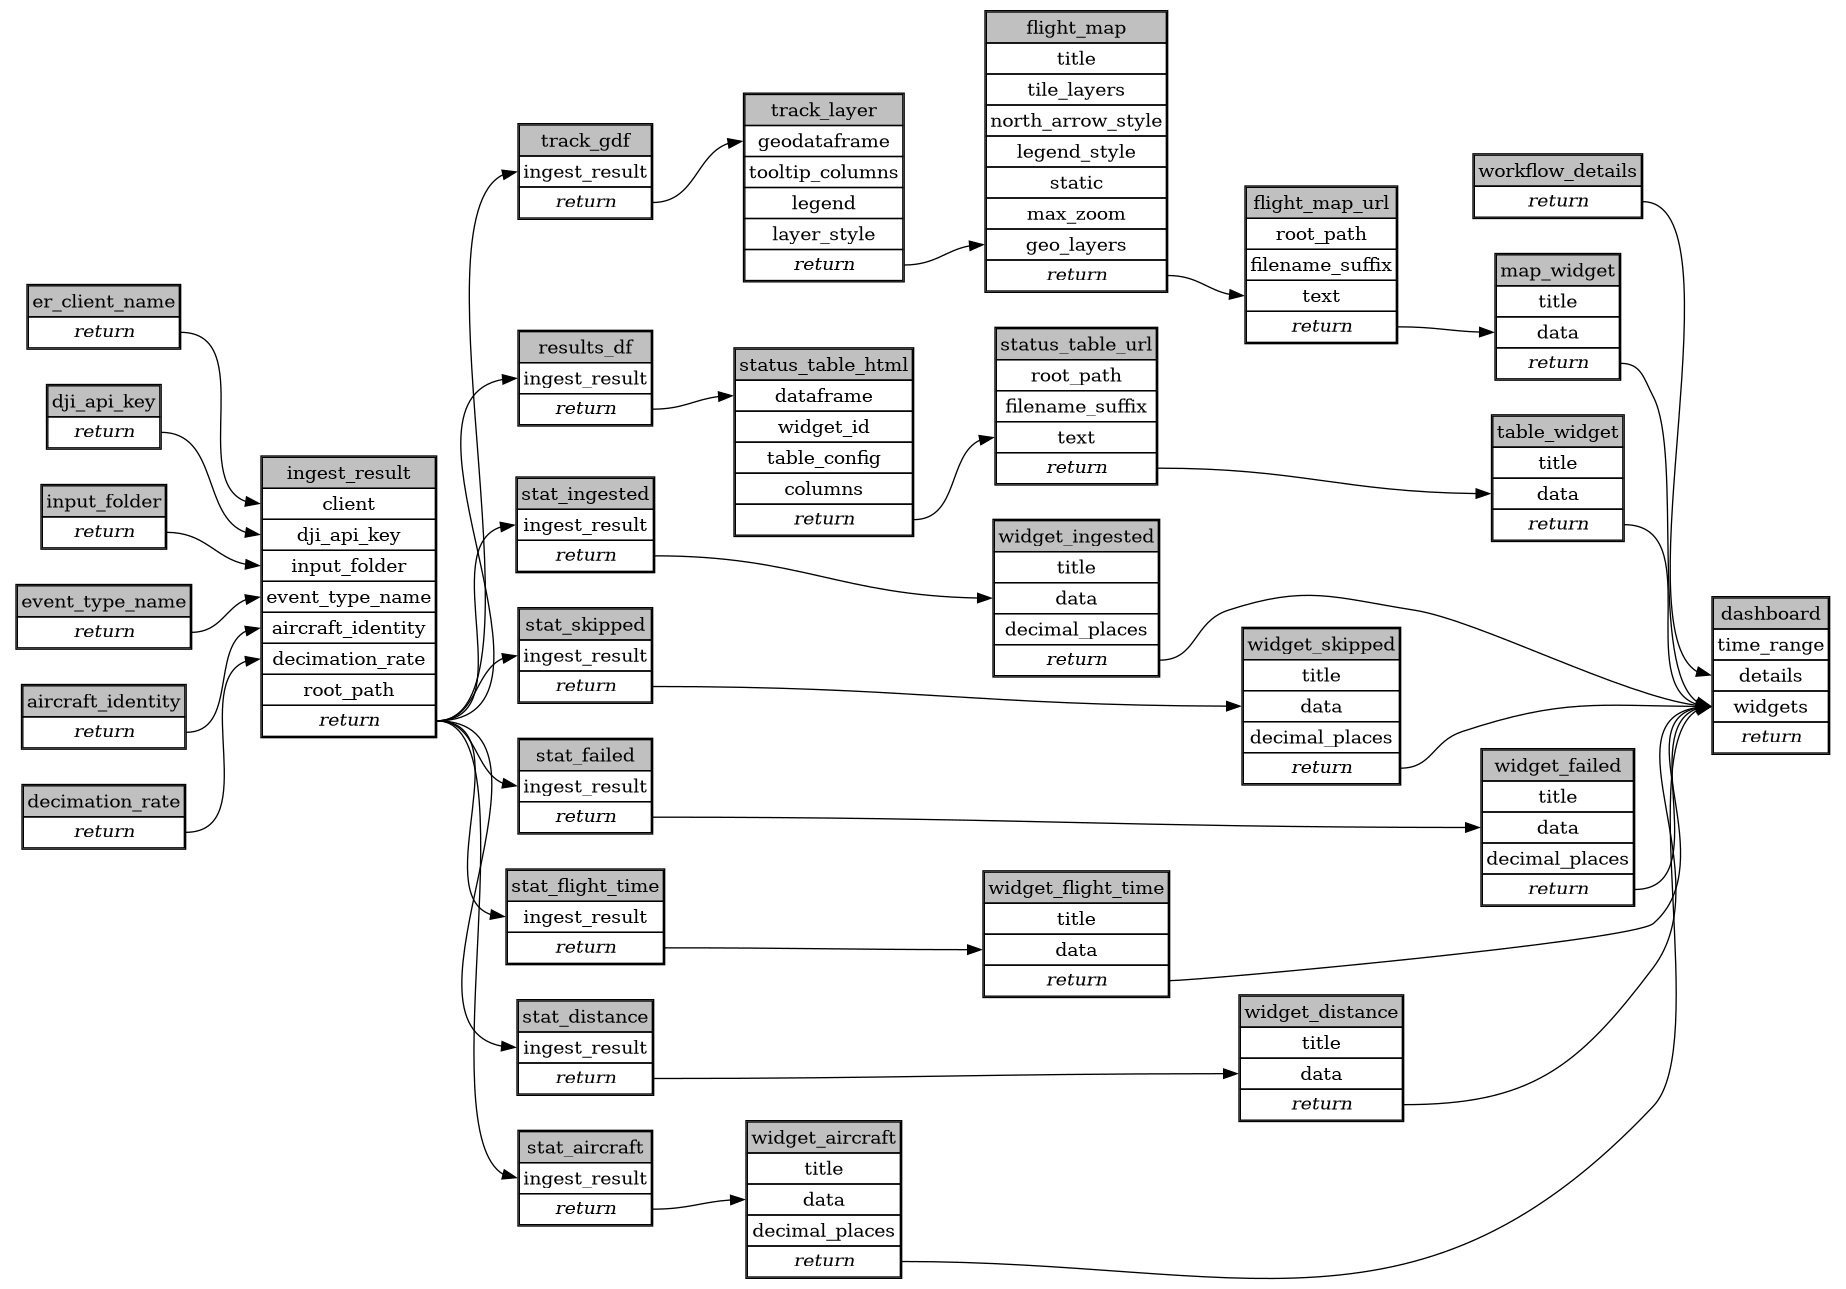
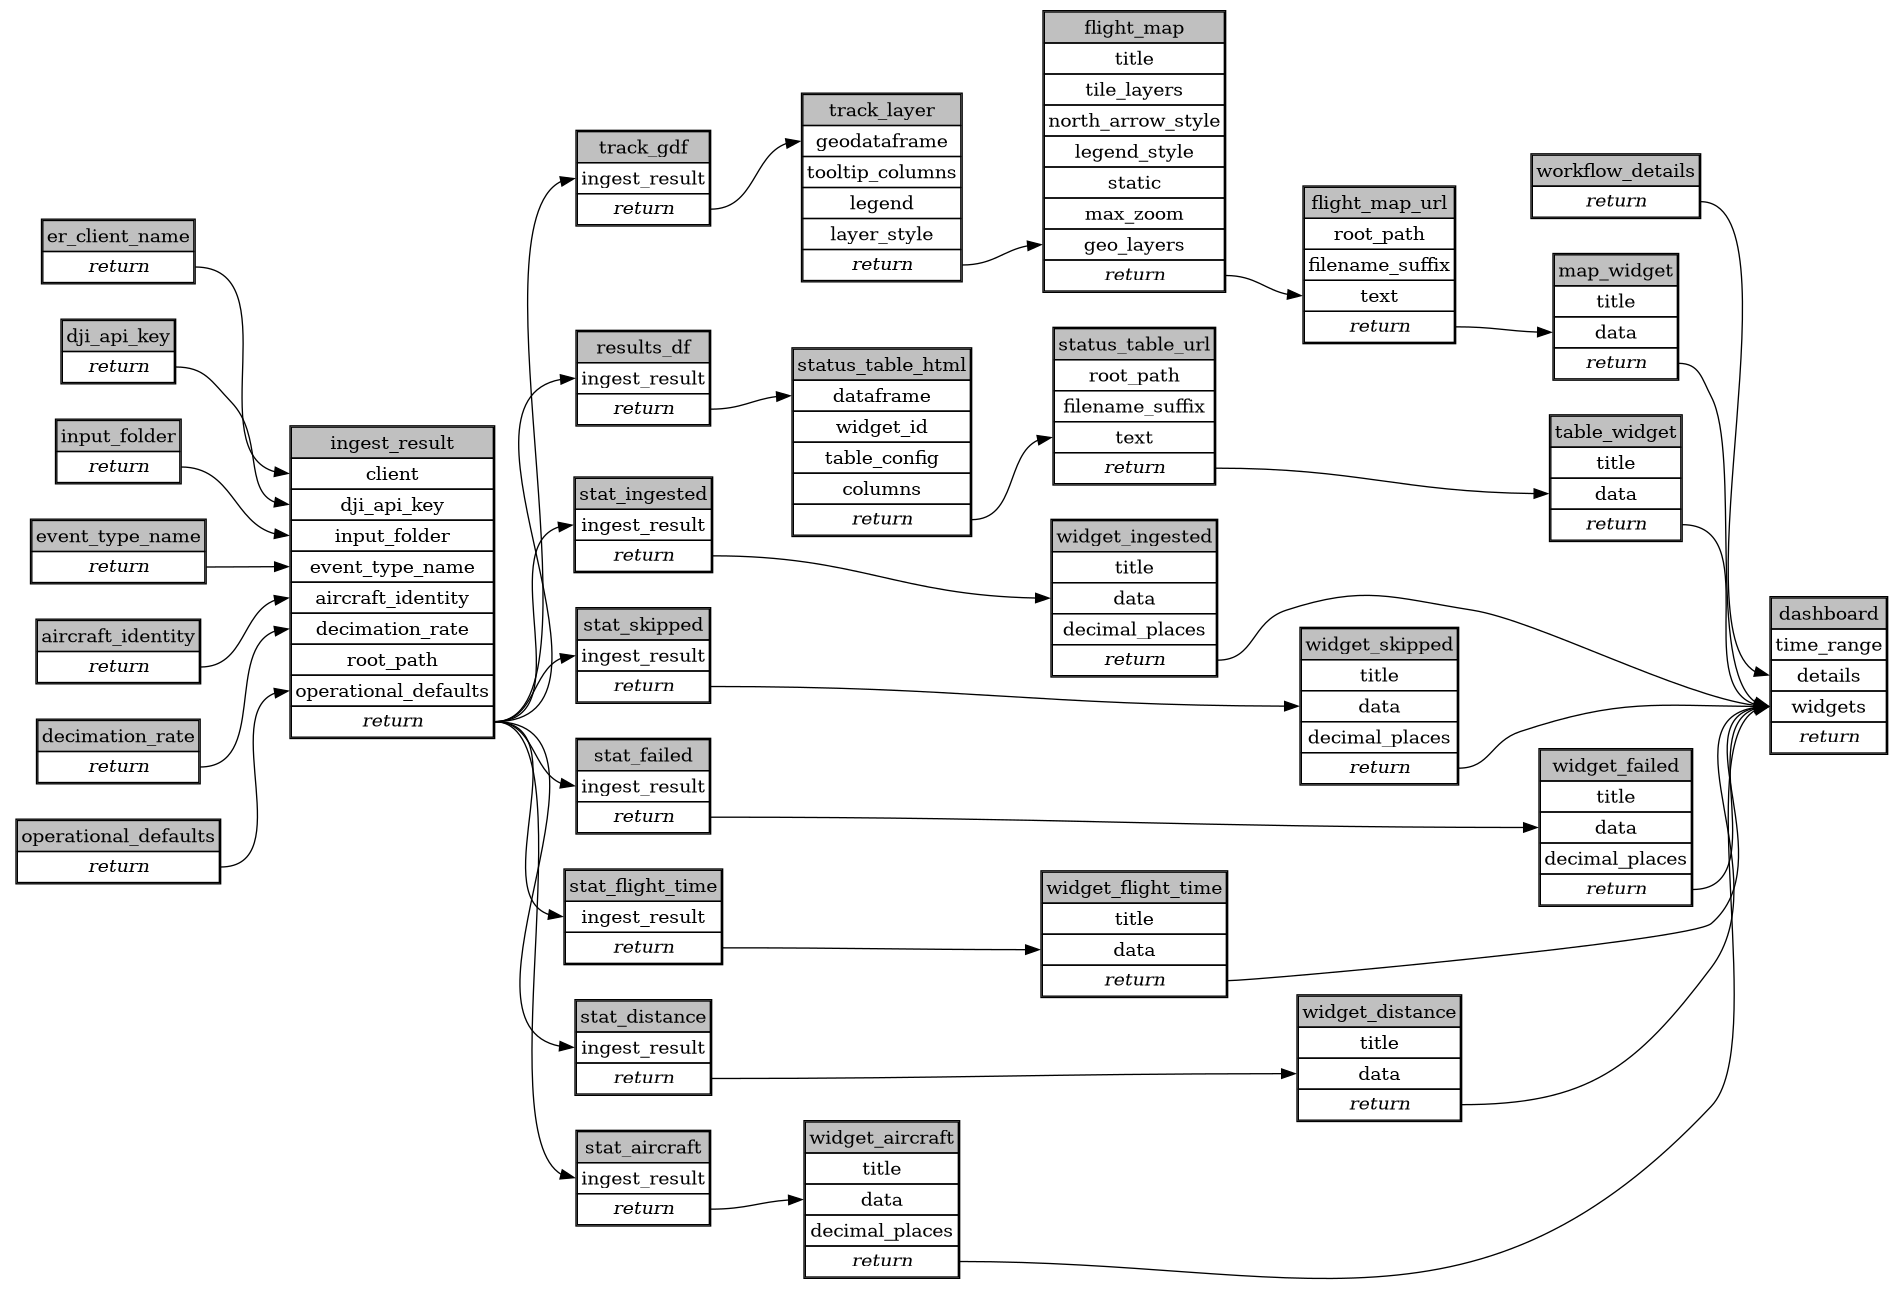
feat: add nature_of_flight field and recompile v3.0.0
Adds set_operational_defaults task to the workflow form — a constrained
enum (vlos/bvlos) applied to all Flight Folio events in the run. remote_pilot
deferred to Web catalogue (rjsf-overrides + EarthRangerEnumResolver) since
Desktop lacks a live ER user dropdown and multi-pilot batches make a single
field wrong.

Also reorders ingest_flights parameters to follow Python conventions
(positional required args before optional).

diff --git a/ecoscope-workflows-uas-flight-logs-workflow/uas-tasks/uas_tasks/__init__.py b/ecoscope-workflows-uas-flight-logs-workflow/uas-tasks/uas_tasks/__init__.py
@@ -17,7 +17,7 @@ from dataclasses import dataclass
 from datetime import datetime, timedelta, timezone
 from math import atan2, cos, radians, sin, sqrt
 from pathlib import Path
-from typing import Annotated, Any
+from typing import Annotated, Any, Literal
 from urllib.parse import urlparse
 
 import geopandas as gpd
@@ -168,28 +168,6 @@ def _write_kml(
     kml_path.write_text(kml_text, encoding="utf-8")
     kml_paths.append(str(kml_path))
 
-
-def _parse_er_users(raw: Any) -> list[dict]:
-    """Normalise whatever get_users() returns into a list of dicts."""
-    if isinstance(raw, list):
-        return raw
-    if isinstance(raw, dict):
-        return raw.get("results", [raw])
-    return []
-
-
-def _match_pilot_name(name: str, users: list[dict]) -> str | None:
-    """Case-insensitive match of name against ER user first_name, then username.
-    Returns the ER user UUID string if exactly one match found, else None.
-    """
-    name_lower = name.strip().lower()
-    matches = [u for u in users if (u.get("first_name") or "").lower() == name_lower]
-    if len(matches) == 1:
-        return str(matches[0]["id"])
-    matches = [u for u in users if (u.get("username") or "").lower() == name_lower]
-    if len(matches) == 1:
-        return str(matches[0]["id"])
-    return None
 
 
 # ---------------------------------------------------------------------------
@@ -343,37 +321,20 @@ def set_decimation_rate(
 
 @register()
 def set_operational_defaults(
-    remote_pilot_name: Annotated[
-        str,
-        Field(
-            title="Remote Pilot",
-            description=(
-                "First name or username of the remote pilot who conducted these flights "
-                "(matched case-insensitively against EarthRanger user accounts). "
-                "Applied to all new Flight Folio events created in this run. "
-                "Leave blank to omit — the field can be filled manually in EarthRanger later."
-            ),
-            default="",
-        ),
-    ] = "",
     nature_of_flight: Annotated[
-        str,
+        Literal["vlos", "bvlos"],
         Field(
             title="Nature of Flight",
             description=(
-                "Operational category for all flights in this batch. "
-                "Typical values: 'vlos' (Visual Line of Sight) or 'bvlos' (Beyond Visual Line of Sight). "
-                "Leave blank to omit."
+                "Operational category applied to all Flight Folio events created in this run. "
+                "'vlos' = Visual Line of Sight; 'bvlos' = Beyond Visual Line of Sight."
             ),
             default="vlos",
         ),
     ] = "vlos",
 ) -> dict:
     """Bundle operational defaults into a dict for ingest_flights."""
-    return {
-        "remote_pilot_name": remote_pilot_name.strip(),
-        "nature_of_flight": nature_of_flight.strip(),
-    }
+    return {"nature_of_flight": nature_of_flight}
 
 
 # ---------------------------------------------------------------------------
@@ -389,8 +350,8 @@ def ingest_flights(
     event_type_name: str,
     aircraft_identity: Any,
     decimation_rate: int,
-    operational_defaults: Any = None,
     root_path: str,
+    operational_defaults: Any = None,
 ) -> Any:
     """
     Iterate DJI .txt flight records in input_folder, decrypt each, post track
@@ -439,24 +400,9 @@ def ingest_flights(
     else:
         event_type_uuid = None
 
-    # Resolve operational defaults once before the per-file loop.
-    # remote_pilot_name → ER user UUID (requires a live user lookup).
-    # If blank or resolution fails, _pilot_uuid stays None and the field is omitted.
-    _pilot_uuid: str | None = None
     _nof: str = ""
     if isinstance(operational_defaults, dict):
-        pilot_name = operational_defaults.get("remote_pilot_name", "").strip()
         _nof = operational_defaults.get("nature_of_flight", "").strip()
-        if pilot_name and event_type_uuid:
-            users_raw = client.get_users()
-            users = _parse_er_users(users_raw)
-            _pilot_uuid = _match_pilot_name(pilot_name, users)
-            if not _pilot_uuid:
-                raise ValueError(
-                    f"Remote pilot '{pilot_name}' did not match any EarthRanger user. "
-                    "Check the spelling — must match the user's first name or username "
-                    "exactly (case-insensitive) as it appears in ER Admin → Users."
-                )
 
     txt_files = sorted(folder.glob("*.txt"))
 
@@ -809,8 +755,6 @@ def ingest_flights(
                         "home_lon":              ref_lon,
                         "firmware":              firmware,
                     }
-                    if _pilot_uuid:
-                        event_details["remote_pilot"] = _pilot_uuid
                     if _nof:
                         event_details["nature_of_flight"] = _nof
                     client.post_event({

diff --git a/uas-tasks/uas_tasks/__init__.py b/uas-tasks/uas_tasks/__init__.py
@@ -17,7 +17,7 @@ from dataclasses import dataclass
 from datetime import datetime, timedelta, timezone
 from math import atan2, cos, radians, sin, sqrt
 from pathlib import Path
-from typing import Annotated, Any
+from typing import Annotated, Any, Literal
 from urllib.parse import urlparse
 
 import geopandas as gpd
@@ -168,28 +168,6 @@ def _write_kml(
     kml_path.write_text(kml_text, encoding="utf-8")
     kml_paths.append(str(kml_path))
 
-
-def _parse_er_users(raw: Any) -> list[dict]:
-    """Normalise whatever get_users() returns into a list of dicts."""
-    if isinstance(raw, list):
-        return raw
-    if isinstance(raw, dict):
-        return raw.get("results", [raw])
-    return []
-
-
-def _match_pilot_name(name: str, users: list[dict]) -> str | None:
-    """Case-insensitive match of name against ER user first_name, then username.
-    Returns the ER user UUID string if exactly one match found, else None.
-    """
-    name_lower = name.strip().lower()
-    matches = [u for u in users if (u.get("first_name") or "").lower() == name_lower]
-    if len(matches) == 1:
-        return str(matches[0]["id"])
-    matches = [u for u in users if (u.get("username") or "").lower() == name_lower]
-    if len(matches) == 1:
-        return str(matches[0]["id"])
-    return None
 
 
 # ---------------------------------------------------------------------------
@@ -343,37 +321,20 @@ def set_decimation_rate(
 
 @register()
 def set_operational_defaults(
-    remote_pilot_name: Annotated[
-        str,
-        Field(
-            title="Remote Pilot",
-            description=(
-                "First name or username of the remote pilot who conducted these flights "
-                "(matched case-insensitively against EarthRanger user accounts). "
-                "Applied to all new Flight Folio events created in this run. "
-                "Leave blank to omit — the field can be filled manually in EarthRanger later."
-            ),
-            default="",
-        ),
-    ] = "",
     nature_of_flight: Annotated[
-        str,
+        Literal["vlos", "bvlos"],
         Field(
             title="Nature of Flight",
             description=(
-                "Operational category for all flights in this batch. "
-                "Typical values: 'vlos' (Visual Line of Sight) or 'bvlos' (Beyond Visual Line of Sight). "
-                "Leave blank to omit."
+                "Operational category applied to all Flight Folio events created in this run. "
+                "'vlos' = Visual Line of Sight; 'bvlos' = Beyond Visual Line of Sight."
             ),
             default="vlos",
         ),
     ] = "vlos",
 ) -> dict:
     """Bundle operational defaults into a dict for ingest_flights."""
-    return {
-        "remote_pilot_name": remote_pilot_name.strip(),
-        "nature_of_flight": nature_of_flight.strip(),
-    }
+    return {"nature_of_flight": nature_of_flight}
 
 
 # ---------------------------------------------------------------------------
@@ -389,8 +350,8 @@ def ingest_flights(
     event_type_name: str,
     aircraft_identity: Any,
     decimation_rate: int,
-    operational_defaults: Any = None,
     root_path: str,
+    operational_defaults: Any = None,
 ) -> Any:
     """
     Iterate DJI .txt flight records in input_folder, decrypt each, post track
@@ -439,24 +400,9 @@ def ingest_flights(
     else:
         event_type_uuid = None
 
-    # Resolve operational defaults once before the per-file loop.
-    # remote_pilot_name → ER user UUID (requires a live user lookup).
-    # If blank or resolution fails, _pilot_uuid stays None and the field is omitted.
-    _pilot_uuid: str | None = None
     _nof: str = ""
     if isinstance(operational_defaults, dict):
-        pilot_name = operational_defaults.get("remote_pilot_name", "").strip()
         _nof = operational_defaults.get("nature_of_flight", "").strip()
-        if pilot_name and event_type_uuid:
-            users_raw = client.get_users()
-            users = _parse_er_users(users_raw)
-            _pilot_uuid = _match_pilot_name(pilot_name, users)
-            if not _pilot_uuid:
-                raise ValueError(
-                    f"Remote pilot '{pilot_name}' did not match any EarthRanger user. "
-                    "Check the spelling — must match the user's first name or username "
-                    "exactly (case-insensitive) as it appears in ER Admin → Users."
-                )
 
     txt_files = sorted(folder.glob("*.txt"))
 
@@ -809,8 +755,6 @@ def ingest_flights(
                         "home_lon":              ref_lon,
                         "firmware":              firmware,
                     }
-                    if _pilot_uuid:
-                        event_details["remote_pilot"] = _pilot_uuid
                     if _nof:
                         event_details["nature_of_flight"] = _nof
                     client.post_event({

diff --git a/ecoscope-workflows-uas-flight-logs-workflow/tests/test_results.py b/ecoscope-workflows-uas-flight-logs-workflow/tests/test_results.py
@@ -2,6 +2,8 @@
 
 import asyncio
 import json
+import re
+from pathlib import Path
 from typing import Any, Coroutine
 
 import pytest
@@ -9,6 +11,10 @@ import pytest_check.context_manager
 from conftest import MATCHSPEC_OVERRIDE, ReconstructedOtelSpan, RunParams
 from syrupy import SnapshotAssertion
 from syrupy.matchers import path_type
+
+_UUID_RE = re.compile(
+    r"\b[0-9a-f]{8}-[0-9a-f]{4}-[0-9a-f]{4}-[0-9a-f]{4}-[0-9a-f]{12}\b"
+)
 
 
 def test_failure_response(
@@ -28,18 +34,21 @@ def test_failure_response(
 
 
 def test_dashboard_json(
-    no_data: bool, response_json_success: dict, snapshot_json: SnapshotAssertion
+    response_json_success: dict,
+    snapshot_json: SnapshotAssertion,
+    tmp_path: Path,
 ):
-    if no_data:
-        kws = {}
-    else:
-        exclude_results_data = {
-            f"result.views.{key}.{i}.data": (str,)
-            for key in response_json_success["result"]["views"]
-            for i, _ in enumerate(response_json_success["result"]["views"][key])
-        }
-        kws = {"matcher": path_type(exclude_results_data)}
-    assert response_json_success == snapshot_json(**kws)
+    # replace any UUIDs or paths to test output in the response_json
+    tmp_root = str(tmp_path.parent)
+
+    def _replace_ephemeral_values(*, data, path):
+        if not isinstance(data, str):
+            return data
+        if data.startswith(tmp_root):
+            return "tmpfile"
+        return _UUID_RE.sub("uuid", data)
+
+    assert response_json_success == snapshot_json(matcher=_replace_ephemeral_values)
 
 
 @pytest.mark.asyncio

diff --git a/ecoscope-workflows-uas-flight-logs-workflow/ecoscope_workflows_uas_flight_logs_workflow/dags/run_sequential.py b/ecoscope-workflows-uas-flight-logs-workflow/ecoscope_workflows_uas_flight_logs_workflow/dags/run_sequential.py
@@ -42,6 +42,7 @@ from uas_tasks import set_decimation_rate as set_decimation_rate
 from uas_tasks import set_dji_api_key as set_dji_api_key
 from uas_tasks import set_event_type_name as set_event_type_name
 from uas_tasks import set_input_folder as set_input_folder
+from uas_tasks import set_operational_defaults as set_operational_defaults
 from wt_contracts import validate as _validate
 from wt_task import task
 
@@ -122,6 +123,16 @@ def main(params: dict[str, Any], validate_params_schema: bool = True):
         .call()
     )
 
+    operational_defaults = (
+        task(set_operational_defaults)
+        .validate()
+        .set_task_instance_id("operational_defaults")
+        .handle_errors()
+        .with_tracing()
+        .partial(**(params.get("operational_defaults") or {}))
+        .call()
+    )
+
     ingest_result = (
         task(ingest_flights)
         .validate()
@@ -142,6 +153,7 @@ def main(params: dict[str, Any], validate_params_schema: bool = True):
             aircraft_identity=aircraft_identity,
             decimation_rate=decimation_rate,
             root_path=os.environ["ECOSCOPE_WORKFLOWS_RESULTS"],
+            operational_defaults=operational_defaults,
             **(params.get("ingest_result") or {}),
         )
         .call()

diff --git a/ecoscope-workflows-uas-flight-logs-workflow/ecoscope_workflows_uas_flight_logs_workflow/dags/run_sequential_mock_io.py b/ecoscope-workflows-uas-flight-logs-workflow/ecoscope_workflows_uas_flight_logs_workflow/dags/run_sequential_mock_io.py
@@ -51,6 +51,7 @@ from uas_tasks import set_decimation_rate as set_decimation_rate
 from uas_tasks import set_dji_api_key as set_dji_api_key
 from uas_tasks import set_event_type_name as set_event_type_name
 from uas_tasks import set_input_folder as set_input_folder
+from uas_tasks import set_operational_defaults as set_operational_defaults
 from wt_contracts import validate as _validate
 from wt_task import task
 
@@ -133,6 +134,16 @@ def main(params: dict[str, Any], validate_params_schema: bool = True):
         .call()
     )
 
+    operational_defaults = (
+        task(set_operational_defaults)
+        .validate()
+        .set_task_instance_id("operational_defaults")
+        .handle_errors()
+        .with_tracing()
+        .partial(**(params.get("operational_defaults") or {}))
+        .call()
+    )
+
     ingest_result = (
         task(ingest_flights)
         .validate()
@@ -153,6 +164,7 @@ def main(params: dict[str, Any], validate_params_schema: bool = True):
             aircraft_identity=aircraft_identity,
             decimation_rate=decimation_rate,
             root_path=os.environ["ECOSCOPE_WORKFLOWS_RESULTS"],
+            operational_defaults=operational_defaults,
             **(params.get("ingest_result") or {}),
         )
         .call()

diff --git a/ecoscope-workflows-uas-flight-logs-workflow/README.md b/ecoscope-workflows-uas-flight-logs-workflow/README.md
@@ -5,14 +5,14 @@
 
 ```yaml
 # fingerprint:
-artifacts_sha256_basic: 4d281ce54a86514e0d22b0b3ef7063e105c22a227c6a26809c9191e5213afe1b
-artifacts_sha256_strict: eb8cf28fcd26b7c521c6c1529cefe41cbdd9b77e2877ad15d49f366a11b06f95
+artifacts_sha256_basic: 6177e1200c81002851c57f94e18a49b2abb575d6fe679a8e55be462d0f87390d
+artifacts_sha256_strict: 4893b97368052c3013e82c5095587934b1fdb0b694802d15f51e74db88953a20
 installed_requirements:
 - channel: https://repo.prefix.dev/ecoscope-workflows/
   name: ecoscope-platform
   version: {version: ==2.11.15}
-params_sha256: c8f3d59cf05642c5646f8437034a12a38afed2cdd681d53a8a3bb624346fcb86
-spec_sha256: 66409c82288aa51773924180749e11e8b9ed8bb053ec51195dcb70f55eaeb8fd
+params_sha256: f58ff189431aba1213c25446471c3ea93c99700cf32eee6a105b8d468b63396a
+spec_sha256: 548ebea3af131fbd6bdda3d8065994cc5fd055051e811dd1385a9d0edca0ef86
 
 ```
 